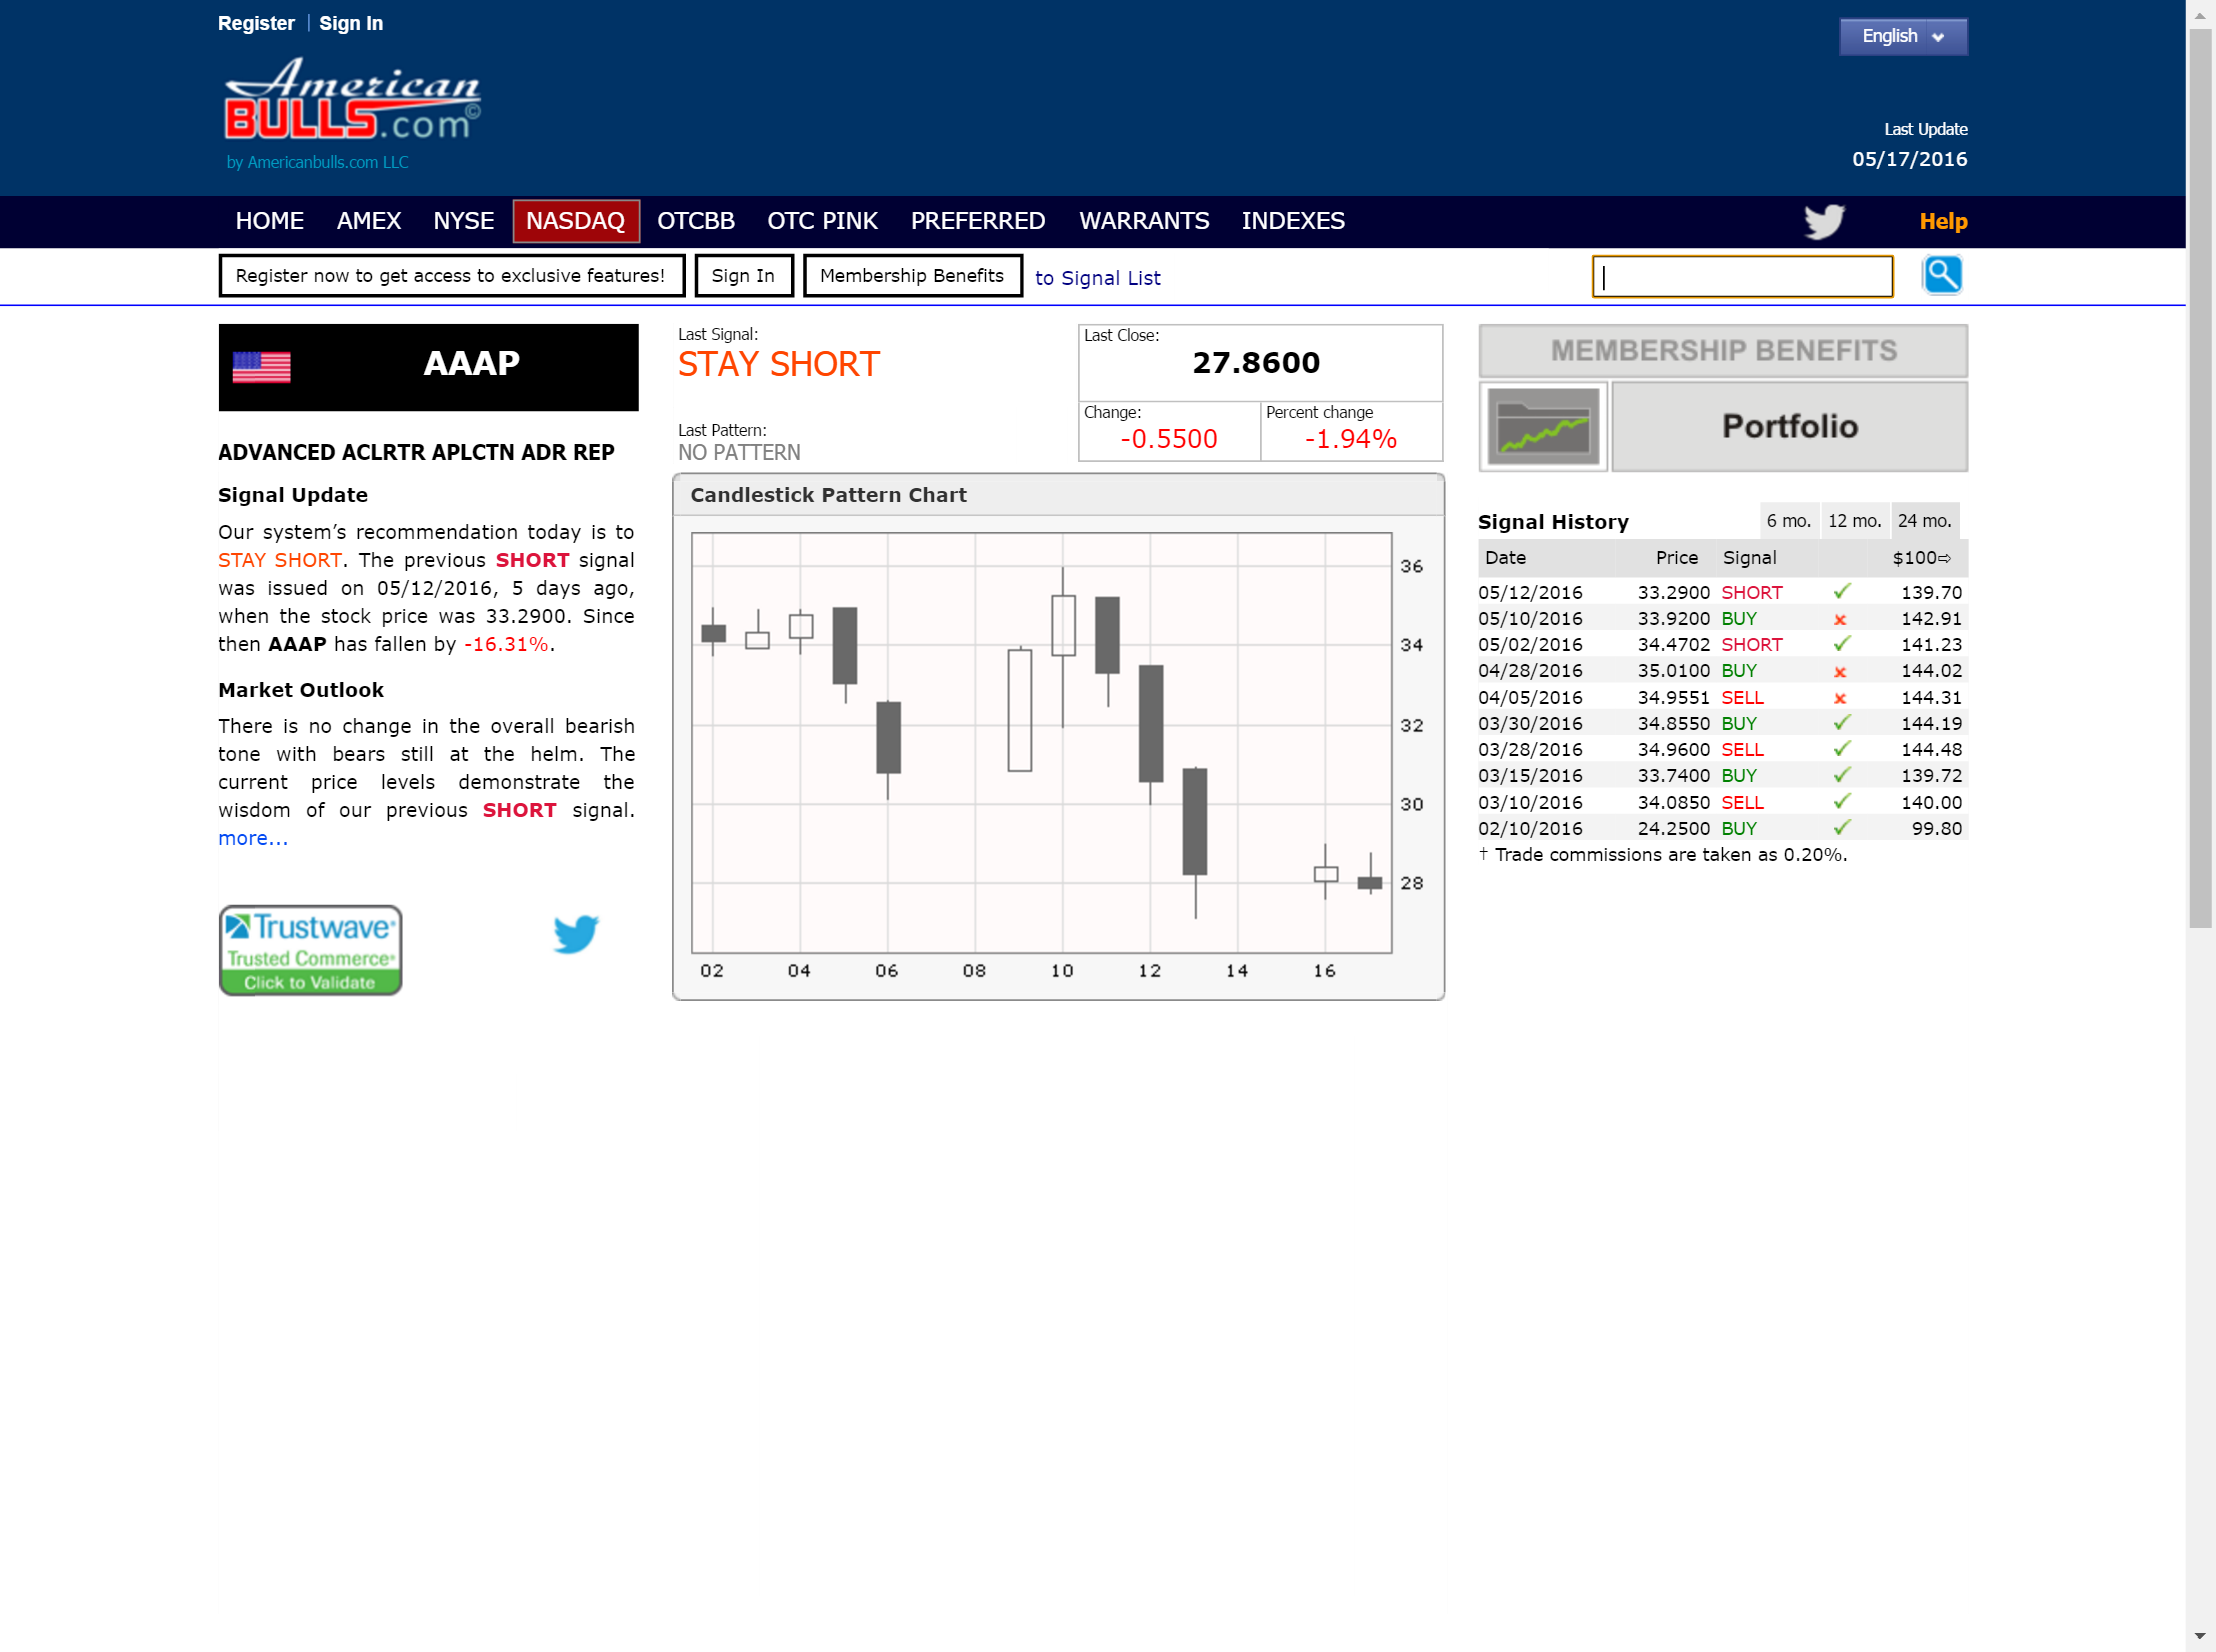
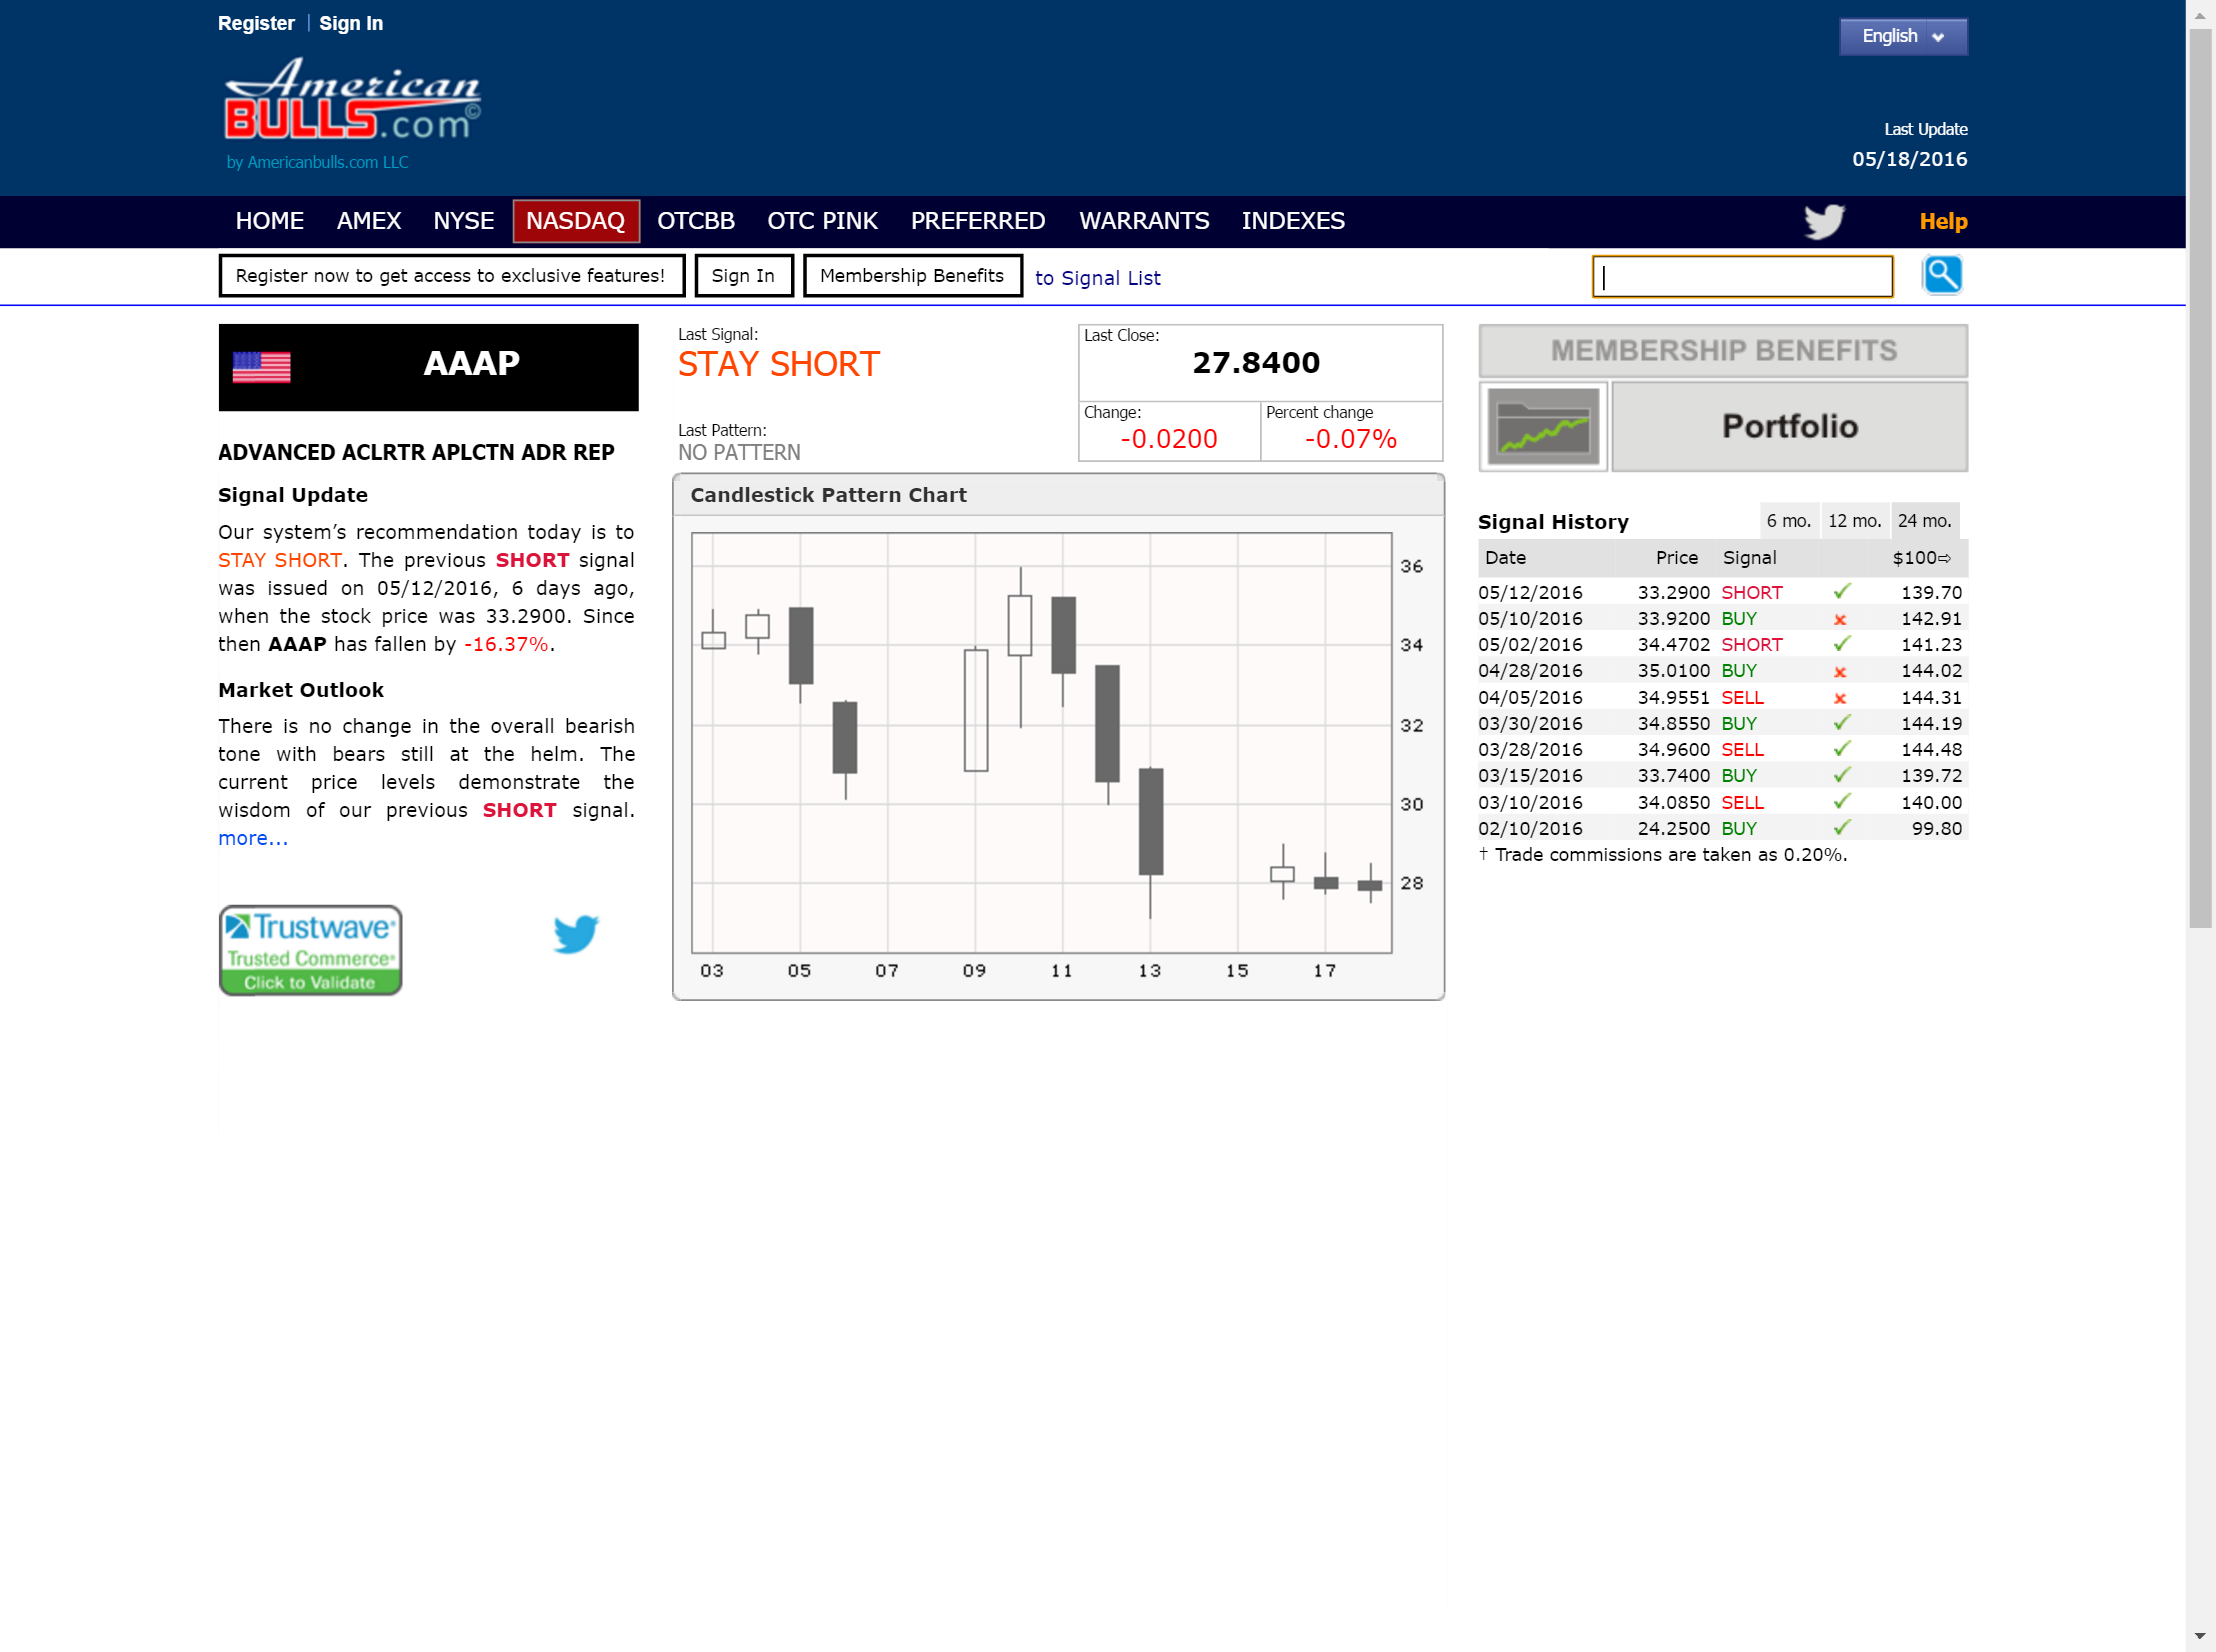
csv

Changed region(s): [[0.3114, 0.3396, 0.5605, 0.5557], [0.5916, 0.5248, 0.6227, 0.5557], [0.5916, 0.247, 0.6227, 0.2778]]

diff --git a/StockFix-SentiAnalysis/sentiment.js b/StockFix-SentiAnalysis/sentiment.js
@@ -17,3 +17,10 @@ var analyze = require('Sentimental').analyze,
     negativity = require('Sentimental').negativity;
 
 console.log(analyze("MGT and its subsidiaries are principally engaged in the business of acquiring, developing and monetizing intellectual property assets. MGTs portfolio currently includes social casino and gaming platforms, and ownership stakes in DraftDay.com, a top daily fantasy sports wagering platform and DraftDay Fantasy Sports, Inc. operator of an online entertainment marketing and rewards platform. MGT also recently announced the acquisition of certain technology and assets from D-Vasive Inc., a provider of leading edge anti-spy software.  In conjunction with the acquisition, The Company also announced the proposed appointment of John McAfee as Executive Chairman and Chief Executive Officer.  Further, MGT Capital also intends to change its corporate name to John McAfee Global Technologies, Inc. Closing of the acquisition is contingent on customary conditions including approval by MGTs stockholders."));
+
+//read stock news from marketwatch.com or google stock news seems more
+//appropriate. we can do both but lets see which one has better articles.
+function readNews(){
+	var readnews = new Nightmare()
+	
+}

diff --git a/StockFix-Scraping/americanBulls.js b/StockFix-Scraping/americanBulls.js
@@ -23,7 +23,6 @@ function read(){
 }
 
 function AbullsScrape(test){
-  var writer = csvWriter()
   var dosome = new Nightmare()
     .viewport(1280,1000)
     .goto('https://www.americanbulls.com/Default.aspx?lang=en')
@@ -41,21 +40,20 @@ function AbullsScrape(test){
     .then(function(data){
       //console.log('run')
       //data = data being scraped and being output on the console log
-      console.log(test);
+      console.log(test)
       console.log(data)
-
     });
 
   // return promise!
   return dosome;
 }
 
-read
+read();
 
 //gets the table on the main page of the americanbulls website
 function AmerBullsMain(){
   var aBulls = new Nightmare()
-  .viewport(800,600)
+  .viewport(1280,1000)
   .goto('https://www.americanbulls.com/Default.aspx?lang=en')
   .wait()
   .screenshot('./stock.png')

diff --git a/StockFix-Main/scrapers/estockpicks.js b/StockFix-Main/scrapers/estockpicks.js
@@ -1,0 +1,28 @@
+"use strict";
+var fs = require('fs');
+var Nightmare = require('nightmare');
+var csvWriter = require('csv-write-stream')
+
+function eStockPics(){
+	var writer = csvWriter()
+	var nightmare = new Nightmare()
+	.viewport(1280,1000)
+	.goto('https://www.estockpicks.com/my-account/')
+	.wait()
+	//login to the website
+	.type('input[id="username"]', 'labtest3333@gmail.com')
+	.type('input[id="password"]', 'password')
+	.click('#login')
+	.wait(1000)
+	//clicks on the dashboard button 
+	.click('')
+	.evaluate(function(){
+		console.log(document.querySelector('').innerText);
+		return document.querySelector('').innerText;
+	})
+	.end()
+	.then(function(data){
+		console.log(data)
+	})
+
+}

diff --git a/StockFix-Scraping/istockpicker.js b/StockFix-Scraping/istockpicker.js
@@ -1,0 +1,20 @@
+"use strict";
+var fs = require('fs');
+var Nightmare = require('nightmare');
+var csvWriter = require('csv-write-stream')
+
+function iStockPick(){
+	var iStockpick = new Nightmare()
+	.viewport(1280,1000)
+	.goto()
+	.wait()
+	.evaluate(function(){
+		console.log(document.querySelector('').innerText);
+		return document.querySelector('').innerText;
+	})
+	.end()
+	.then(function(data){
+		console.log(data);
+	})
+
+}

diff --git a/StockFix-Scraping/stockTwits.js b/StockFix-Scraping/stockTwits.js
@@ -1,0 +1,12 @@
+"use strict";
+var fs = require('fs');
+var Nightmare = require('nightmare');
+var csvWriter = require('csv-write-stream')
+
+//use the stocktwits api from npm to do the scraping instead
+//of using nightmarejs to do the scraping since their api is 
+//more efficient
+
+function Stocktwits(){
+	
+}

diff --git a/StockFix-Scraping/timAlerts.js b/StockFix-Scraping/timAlerts.js
@@ -1,0 +1,10 @@
+"use strict";
+var fs = require('fs');
+var Nightmare = require('nightmare');
+var csvWriter = require('csv-write-stream')
+
+//need to setup time alerts texting service to read in the SMS from tim
+//then output the signals based on his signals
+function timAlerts(){
+	
+}

diff --git a/StockFix-Scraping/csvwriteTest.js b/StockFix-Scraping/csvwriteTest.js
@@ -1,0 +1,7 @@
+var fs = require('fs')
+var csvWriter = require('csv-write-stream')
+
+var writer = csvWriter({ headers: ["hello", "foo"]})
+writer.pipe(fs.createWriteStream('out.csv'))
+writer.write(['world', 'bar'])
+writer.end()

diff --git a/StockFix-Scraping/traceinvest.js b/StockFix-Scraping/traceinvest.js
@@ -1,0 +1,5 @@
+"use strict";
+var fs = require('fs');
+var Nightmare = require('nightmare');
+var csvWriter = require('csv-write-stream')
+
